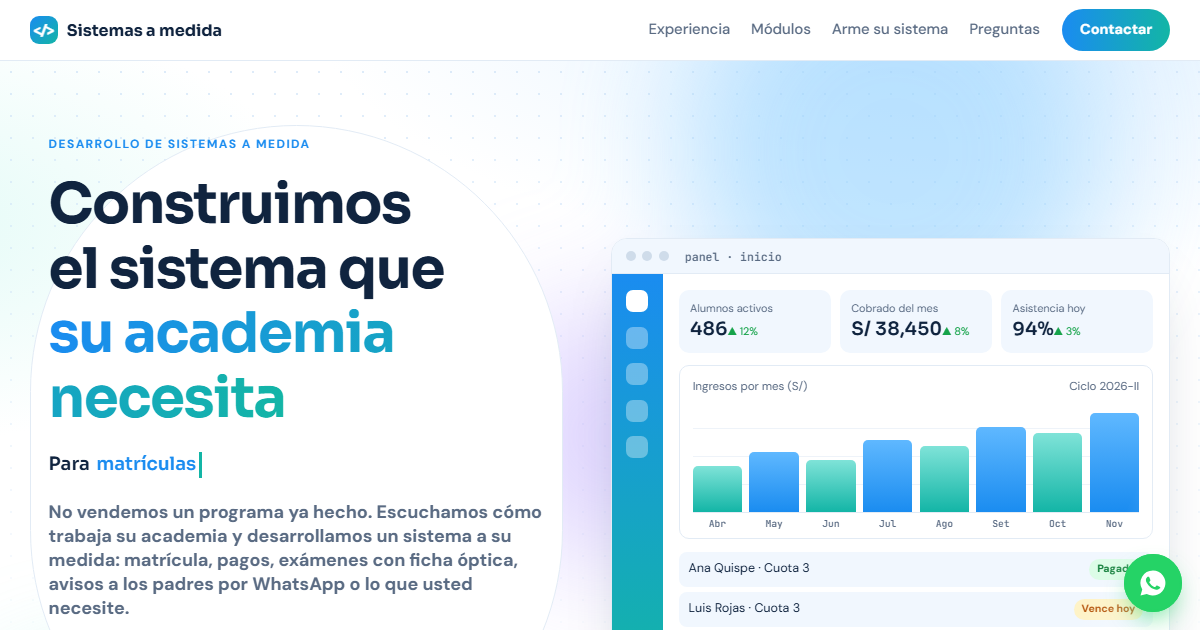
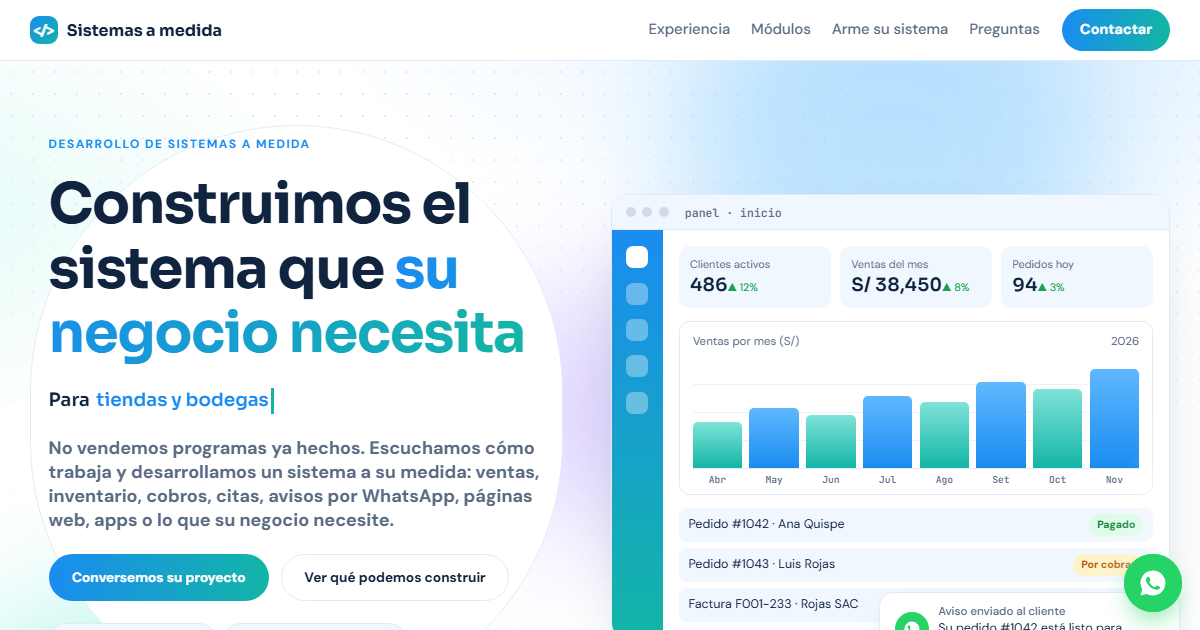
Portafolio general: sistemas a medida para cualquier negocio, 21 módulos y rubro en Arme su sistema

diff --git a/index.html b/index.html
@@ -3,10 +3,10 @@
 <head>
 <meta charset="utf-8">
 <meta name="viewport" content="width=device-width, initial-scale=1, viewport-fit=cover">
-<title>Sistemas para Academias</title>
-<meta name="description" content="Desarrollamos sistemas a medida para academias preuniversitarias: matrícula, pagos, exámenes con ficha óptica y avisos a padres por WhatsApp.">
-<meta property="og:title" content="Sistemas a medida para academias">
-<meta property="og:description" content="Matrícula, pagos, exámenes con ficha óptica y avisos a padres por WhatsApp, hechos a la medida de su academia.">
+<title>Sistemas a Medida</title>
+<meta name="description" content="Desarrollamos sistemas a medida para negocios e instituciones: ventas, inventario, cobros, citas, avisos por WhatsApp, páginas web y apps.">
+<meta property="og:title" content="Sistemas a medida para su negocio">
+<meta property="og:description" content="Ventas, inventario, cobros, citas, avisos por WhatsApp, web y apps, hechos a la medida de su negocio.">
 <meta property="og:type" content="website">
 <meta property="og:url" content="https://portafolio-academias.vercel.app/">
 <meta property="og:image" content="https://portafolio-academias.vercel.app/og.png">
@@ -371,15 +371,15 @@ html{padding-top:env(safe-area-inset-top,0px);padding-bottom:env(safe-area-inset
     <a class="btn primary" href="#contacto">Contactar</a>
   </div>
 </nav>
-<a class="wa-float" href="https://wa.me/51916037021?text=Hola%20Pablo%2C%20quisiera%20conversar%20sobre%20un%20sistema%20para%20mi%20academia" target="_blank" rel="noopener" aria-label="Escribir por WhatsApp"><span>¿Conversamos?</span><svg width="30" height="30" viewBox="0 0 24 24" fill="#fff" aria-hidden="true"><path d="M12 2a10 10 0 0 0-8.6 15.1L2 22l5-1.3A10 10 0 1 0 12 2zm5.2 14.1c-.2.6-1.3 1.2-1.8 1.2-.5.1-1 .2-3.3-.7-2.8-1.1-4.5-4-4.7-4.2-.1-.2-1.1-1.5-1.1-2.8s.7-2 1-2.3c.2-.3.5-.3.7-.3h.5c.2 0 .4 0 .6.5l.8 2c.1.2.1.4 0 .5l-.4.6-.3.4c-.1.1-.3.3-.1.6.2.3.8 1.3 1.7 2.1 1.2 1 2.1 1.3 2.4 1.5.3.1.5.1.6-.1l.9-1c.2-.3.4-.2.6-.1l1.9.9c.3.1.5.2.5.3.1.2.1.7-.1 1.3z"/></svg></a>
+<a class="wa-float" href="https://wa.me/51916037021?text=Hola%20Pablo%2C%20quisiera%20conversar%20sobre%20un%20sistema%20para%20mi%20negocio" target="_blank" rel="noopener" aria-label="Escribir por WhatsApp"><span>¿Conversamos?</span><svg width="30" height="30" viewBox="0 0 24 24" fill="#fff" aria-hidden="true"><path d="M12 2a10 10 0 0 0-8.6 15.1L2 22l5-1.3A10 10 0 1 0 12 2zm5.2 14.1c-.2.6-1.3 1.2-1.8 1.2-.5.1-1 .2-3.3-.7-2.8-1.1-4.5-4-4.7-4.2-.1-.2-1.1-1.5-1.1-2.8s.7-2 1-2.3c.2-.3.5-.3.7-.3h.5c.2 0 .4 0 .6.5l.8 2c.1.2.1.4 0 .5l-.4.6-.3.4c-.1.1-.3.3-.1.6.2.3.8 1.3 1.7 2.1 1.2 1 2.1 1.3 2.4 1.5.3.1.5.1.6-.1l.9-1c.2-.3.4-.2.6-.1l1.9.9c.3.1.5.2.5.3.1.2.1.7-.1 1.3z"/></svg></a>
 <header class="hero">
   <div class="blobs" aria-hidden="true"><i></i><i></i><i></i></div>
   <div class="wrap">
     <div class="copy">
       <span class="eyebrow">Desarrollo de sistemas a medida</span>
-      <h1>Construimos el sistema que <span class="grad">su academia necesita</span></h1>
-      <p class="rotator" aria-label="Para matrículas, pagos, exámenes, avisos por WhatsApp y reportes">Para <span class="w" id="rot" aria-hidden="true">matrículas</span></p>
-      <p class="lead">No vendemos un programa ya hecho. Escuchamos cómo trabaja su academia y desarrollamos un sistema a su medida: matrícula, pagos, exámenes con ficha óptica, avisos a los padres por WhatsApp o lo que usted necesite.</p>
+      <h1>Construimos el sistema que <span class="grad">su negocio necesita</span></h1>
+      <p class="rotator" aria-label="Para tiendas, academias, consultorios, restaurantes, talleres e instituciones">Para <span class="w" id="rot" aria-hidden="true">tiendas y bodegas</span></p>
+      <p class="lead">No vendemos programas ya hechos. Escuchamos cómo trabaja y desarrollamos un sistema a su medida: ventas, inventario, cobros, citas, avisos por WhatsApp, páginas web, apps o lo que su negocio necesite.</p>
       <div class="cta">
         <a class="btn primary" href="#contacto">Conversemos su proyecto</a>
         <a class="btn" href="#modulos">Ver qué podemos construir</a>
@@ -393,32 +393,32 @@ html{padding-top:env(safe-area-inset-top,0px);padding-bottom:env(safe-area-inset
     </div>
 
     <div class="hero-art rv">
-      <div class="app" role="img" aria-label="Pantalla simulada del panel principal con ingresos del mes y estado de pagos">
+      <div class="app" role="img" aria-label="Pantalla simulada del panel principal con ventas del mes y estado de pedidos">
         <div class="bar"><i></i><i></i><i></i><span>panel · inicio</span></div>
         <div class="dash">
           <div class="side"><i></i><i></i><i></i><i></i><i></i></div>
           <div class="dmain">
             <div class="kpis">
-              <div class="kpi"><small>Alumnos activos</small><strong class="count" data-to="486">486</strong><em>▲ 12%</em></div>
-              <div class="kpi"><small>Cobrado del mes</small><strong>S/ <span class="count" data-to="38450">38450</span></strong><em>▲ 8%</em></div>
-              <div class="kpi"><small>Asistencia hoy</small><strong><span class="count" data-to="94">94</span>%</strong><em>▲ 3%</em></div>
+              <div class="kpi"><small>Clientes activos</small><strong class="count" data-to="486">486</strong><em>▲ 12%</em></div>
+              <div class="kpi"><small>Ventas del mes</small><strong>S/ <span class="count" data-to="38450">38450</span></strong><em>▲ 8%</em></div>
+              <div class="kpi"><small>Pedidos hoy</small><strong><span class="count" data-to="94">94</span></strong><em>▲ 3%</em></div>
             </div>
             <div class="chart">
-              <header><span>Ingresos por mes (S/)</span><span>Ciclo 2026-II</span></header>
+              <header><span>Ventas por mes (S/)</span><span>2026</span></header>
               <div class="bars"><span style="--h:42%"></span><span style="--h:55%"></span><span style="--h:48%"></span><span style="--h:66%"></span><span style="--h:60%"></span><span style="--h:78%"></span><span style="--h:72%"></span><span style="--h:90%"></span></div>
               <div class="months"><span>Abr</span><span>May</span><span>Jun</span><span>Jul</span><span>Ago</span><span>Set</span><span>Oct</span><span>Nov</span></div>
             </div>
             <div class="list">
-              <div class="li"><span>Ana Quispe · Cuota 3</span><span class="pill ok">Pagado</span></div>
-              <div class="li"><span>Luis Rojas · Cuota 3</span><span class="pill warn">Vence hoy</span></div>
-              <div class="li"><span>Diego Ramos · Cuota 2</span><span class="pill bad">Atrasado</span></div>
+              <div class="li"><span>Pedido #1042 · Ana Quispe</span><span class="pill ok">Pagado</span></div>
+              <div class="li"><span>Pedido #1043 · Luis Rojas</span><span class="pill warn">Por cobrar</span></div>
+              <div class="li"><span>Factura F001-233 · Rojas SAC</span><span class="pill bad">Vencida</span></div>
             </div>
           </div>
         </div>
       </div>
       <div class="toast" aria-hidden="true">
         <span class="wa-ic"><svg width="18" height="18" viewBox="0 0 24 24" fill="#fff"><path d="M12 2a10 10 0 0 0-8.6 15.1L2 22l5-1.3A10 10 0 1 0 12 2zm5.2 14.1c-.2.6-1.3 1.2-1.8 1.2-.5.1-1 .2-3.3-.7-2.8-1.1-4.5-4-4.7-4.2-.1-.2-1.1-1.5-1.1-2.8s.7-2 1-2.3c.2-.3.5-.3.7-.3h.5c.2 0 .4 0 .6.5l.8 2c.1.2.1.4 0 .5l-.4.6-.3.4c-.1.1-.3.3-.1.6.2.3.8 1.3 1.7 2.1 1.2 1 2.1 1.3 2.4 1.5.3.1.5.1.6-.1l.9-1c.2-.3.4-.2.6-.1l1.9.9c.3.1.5.2.5.3.1.2.1.7-.1 1.3z"/></svg></span>
-        <p><b>Aviso enviado al apoderado</b>Diego quedó en el puesto 12 del Simulacro 3.</p>
+        <p><b>Aviso enviado al cliente</b>Su pedido #1042 está listo para recoger.</p>
       </div>
     </div>
   </div>
@@ -427,10 +427,10 @@ html{padding-top:env(safe-area-inset-top,0px);padding-bottom:env(safe-area-inset
 <!-- CIFRAS -->
 <div class="wrap">
   <div class="stats">
-    <div class="stat rv"><strong><span class="count" data-to="16">16</span> módulos</strong><span>que podemos construir y combinar</span></div>
-    <div class="stat rv d1"><strong><span class="count" data-to="100">100</span> preguntas</strong><span>por ficha óptica, leídas con el celular</span></div>
-    <div class="stat rv d2"><strong>24/7</strong><span>avisos automáticos a padres por WhatsApp</span></div>
-    <div class="stat rv d3"><strong><span class="count" data-to="0">0</span> papeles</strong><span>perdidos: todo queda guardado por ciclo</span></div>
+    <div class="stat rv"><strong><span class="count" data-to="21">21</span> módulos</strong><span>que podemos construir y combinar</span></div>
+    <div class="stat rv d1"><strong><span class="count" data-to="6">6</span> rubros</strong><span>educación, comercio, salud, servicios y más</span></div>
+    <div class="stat rv d2"><strong>24/7</strong><span>avisos automáticos a sus clientes por WhatsApp</span></div>
+    <div class="stat rv d3"><strong><span class="count" data-to="0">0</span> papeles</strong><span>perdidos: todo queda guardado en la nube</span></div>
   </div>
 </div>
 <div class="marquee" aria-hidden="true"><div class="track" id="track"></div></div>
@@ -439,17 +439,17 @@ html{padding-top:env(safe-area-inset-top,0px);padding-bottom:env(safe-area-inset
 <section id="experiencia">
   <div class="wrap">
     <div class="head center rv">
-      <span class="eyebrow">Experiencia comprobada</span>
-      <h2>Ya lo hicimos para otras academias</h2>
-      <p class="lead">Hemos desarrollado sistemas a medida para academias preuniversitarias que hoy los usan en su trabajo diario. Cada uno se construyó según lo que esa academia necesitaba; estas son tres de las soluciones que más les cambiaron el día a día.</p>
+      <span class="eyebrow">Casos reales</span>
+      <h2>Sistemas que ya están funcionando</h2>
+      <p class="lead">Estas son tres piezas que ya construimos para instituciones educativas y que hoy se usan a diario. Las mismas soluciones se adaptan a cualquier negocio: cambian los nombres, la idea es la misma.</p>
     </div>
 
     <!-- Pagos -->
     <div class="pillar">
       <div class="txt rv">
-        <span class="num">PAGOS</span>
+        <span class="num">COBROS Y PAGOS · CASO: ACADEMIA</span>
         <h3 style="font-size:1.7rem">Sepa quién debe, cuánto y desde cuándo</h3>
-        <p class="lead">Cada alumno tiene su plan de cuotas. Secretaría registra el pago, imprime el ticket y el sistema actualiza la deuda al instante.</p>
+        <p class="lead">En una academia son cuotas de alumnos; en un gimnasio, membresías; en una tienda, ventas al crédito. Se registra el pago, sale el ticket y la deuda se actualiza al instante.</p>
         <ul class="ticks"><li>Cuotas, pagos parciales, descuentos y becas</li><li>Ticket impreso en impresora térmica por cada pago</li><li>Lista de morosos con un clic y recordatorio por WhatsApp</li><li>Cierre de caja diario y mensual</li></ul>
       </div>
       <div class="app pay rv d1" role="img" aria-label="Pantalla simulada de control de pagos">
@@ -471,7 +471,7 @@ html{padding-top:env(safe-area-inset-top,0px);padding-bottom:env(safe-area-inset
     <!-- Exámenes -->
     <div class="pillar flip">
       <div class="txt rv">
-        <span class="num">EXÁMENES</span>
+        <span class="num">EVALUACIONES · CASO: ACADEMIA</span>
         <h3 style="font-size:1.7rem">Crear, calificar y publicar resultados el mismo día</h3>
         <p class="lead">El docente carga las preguntas y la clave, se imprimen las fichas ópticas y se califican con la cámara del celular. El ranking sale solo.</p>
         <ul class="ticks"><li><b>Creación:</b> banco de preguntas, solucionario y clave por área</li><li><b>Evaluación:</b> fichas ópticas personalizadas leídas con el celular</li><li><b>Resultados:</b> ranking general y por área, exportable a Excel y PDF</li><li>Puntaje con la escala de la academia (ej. +6 / −0,07 / 0)</li></ul>
@@ -508,9 +508,9 @@ html{padding-top:env(safe-area-inset-top,0px);padding-bottom:env(safe-area-inset
     <!-- WhatsApp -->
     <div class="pillar">
       <div class="txt rv">
-        <span class="num">AVISOS A PADRES</span>
-        <h3 style="font-size:1.7rem">Los padres se enteran por WhatsApp, sin que nadie tenga que escribir</h3>
-        <p class="lead">El sistema envía los mensajes solo, desde el número de la academia. Los padres reciben la información en la app que ya usan todos los días.</p>
+        <span class="num">AVISOS POR WHATSAPP · CASO: ACADEMIA</span>
+        <h3 style="font-size:1.7rem">Sus clientes se enteran por WhatsApp, sin que nadie tenga que escribir</h3>
+        <p class="lead">El sistema envía los mensajes solo, desde el número de su negocio. En la academia avisa a los padres; en su negocio puede confirmar pedidos, recordar citas o cobrar deudas.</p>
         <ul class="ticks"><li>Recordatorio de cuotas antes del vencimiento</li><li>Notas y puesto en cada simulacro</li><li>Faltas y tardanzas del día</li><li>Comunicados generales a todo un ciclo o aula</li></ul>
       </div>
       <div class="rv d1">
@@ -540,30 +540,36 @@ html{padding-top:env(safe-area-inset-top,0px);padding-bottom:env(safe-area-inset
       <p class="lead">No es un paquete cerrado. Usted elige qué necesita, lo diseñamos según su forma de trabajar y podemos agregar funciones que no estén en esta lista. Todo comparte la misma información, así que nada se escribe dos veces.</p>
     </div>
     <div class="filters" role="group" aria-label="Filtrar módulos por área">
-      <button type="button" class="f on" data-f="all">Todos <span>16</span></button>
-      <button type="button" class="f" data-f="sec">Secretaría</button>
+      <button type="button" class="f on" data-f="all">Todos <span>21</span></button>
+      <button type="button" class="f" data-f="ven">Ventas</button>
+      <button type="button" class="f" data-f="ope">Operaciones</button>
       <button type="button" class="f" data-f="fin">Finanzas</button>
-      <button type="button" class="f" data-f="aca">Académico</button>
       <button type="button" class="f" data-f="com">Comunicación</button>
       <button type="button" class="f" data-f="dir">Dirección</button>
+      <button type="button" class="f" data-f="web">Web y apps</button>
     </div>
     <div class="mods">
-      <article class="mod rv" data-cat="sec"><div class="ic"><svg viewBox="0 0 24 24"><path d="M16 21v-2a4 4 0 0 0-4-4H6a4 4 0 0 0-4 4v2"/><circle cx="9" cy="7" r="4"/><path d="M19 8v6M22 11h-6"/></svg></div><span class="cat">Secretaría</span><h3>Matrícula</h3><ul><li>Registro por DNI con foto</li><li>Turno, área y carrera</li><li>Datos del apoderado y poder para menores</li><li>Ficha A4 y ticket al instante</li></ul></article>
-      <article class="mod rv" data-cat="sec"><div class="ic"><svg viewBox="0 0 24 24"><path d="M4 4h16v16H4z"/><path d="M8 9h8M8 13h8M8 17h4"/><circle cx="18" cy="18" r="4" fill="#fff"/><path d="M16.5 18l1 1 2-2"/></svg></div><span class="cat">Secretaría</span><h3>Preinscripción en línea</h3><ul><li>Formulario web para postulantes</li><li>Llegan como interesados al sistema</li><li>Secretaría confirma y matricula</li><li>Útil para campañas de inicio de ciclo</li></ul></article>
-      <article class="mod rv" data-cat="sec"><div class="ic"><svg viewBox="0 0 24 24"><rect x="3" y="3" width="7" height="7"/><rect x="14" y="3" width="7" height="7"/><rect x="3" y="14" width="7" height="7"/><path d="M14 14h3v3h-3zM20 14v.01M14 20h.01M17 20h4v-3"/></svg></div><span class="cat">Secretaría</span><h3>Asistencia con QR</h3><ul><li>Carnet del alumno con código QR</li><li>Se marca en la puerta con un celular</li><li>Faltas y tardanzas al instante</li><li>Aviso inmediato al apoderado</li></ul></article>
-      <article class="mod rv" data-cat="fin"><div class="ic"><svg viewBox="0 0 24 24"><rect x="2" y="5" width="20" height="14" rx="2"/><path d="M2 10h20M6 15h4"/></svg></div><span class="cat">Finanzas</span><h3>Pagos</h3><ul><li>Plan de cuotas por alumno</li><li>Pagos parciales, descuentos y becas</li><li>Ticket por cada pago</li><li>Lista de morosos y cierre de caja</li></ul></article>
-      <article class="mod rv" data-cat="fin"><div class="ic"><svg viewBox="0 0 24 24"><path d="M6 2h12v20l-3-2-3 2-3-2-3 2z"/><path d="M9 7h6M9 11h6M9 15h3"/></svg></div><span class="cat">Finanzas</span><h3>Boletas electrónicas</h3><ul><li>Conexión con facturación electrónica</li><li>Boleta o factura en cada pago</li><li>Envío al correo o WhatsApp del cliente</li><li>Reporte para el contador</li></ul></article>
-      <article class="mod rv" data-cat="fin"><div class="ic"><svg viewBox="0 0 24 24"><circle cx="12" cy="8" r="4"/><path d="M4 21c1-4 4-6 8-6s7 2 8 6"/><path d="M17 3l2 2-2 2"/></svg></div><span class="cat">Finanzas</span><h3>Pago a docentes</h3><ul><li>Horas dictadas por docente</li><li>Cálculo automático del pago</li><li>Adelantos y descuentos</li><li>Constancia de pago imprimible</li></ul></article>
-      <article class="mod rv" data-cat="fin"><div class="ic"><svg viewBox="0 0 24 24"><path d="M3 17l6-6 4 4 8-8"/><path d="M15 7h6v6"/></svg></div><span class="cat">Finanzas</span><h3>Gastos y ganancia</h3><ul><li>Registro de alquiler, luz y materiales</li><li>Caja chica</li><li>Ganancia real de cada ciclo</li><li>Comparación entre ingresos y gastos</li></ul></article>
-      <article class="mod rv" data-cat="aca"><div class="ic"><svg viewBox="0 0 24 24"><path d="M22 10L12 5 2 10l10 5 10-5z"/><path d="M6 12v5c3 2 9 2 12 0v-5"/></svg></div><span class="cat">Académico</span><h3>Portal docente</h3><ul><li>Cuenta propia para cada docente</li><li>Ve solo sus cursos y aulas</li><li>Sube preguntas y solucionarios</li><li>Registra asistencia y notas</li></ul></article>
-      <article class="mod rv" data-cat="aca"><div class="ic"><svg viewBox="0 0 24 24"><path d="M9 11l3 3 8-8"/><path d="M20 12v7a2 2 0 0 1-2 2H6a2 2 0 0 1-2-2V5a2 2 0 0 1 2-2h9"/></svg></div><span class="cat">Académico</span><h3>Exámenes</h3><ul><li>Banco de preguntas y claves por área</li><li>Fichas ópticas con QR</li><li>Calificación con el celular</li><li>Ranking general y por área</li></ul></article>
-      <article class="mod rv" data-cat="aca"><div class="ic"><svg viewBox="0 0 24 24"><rect x="3" y="4" width="18" height="17" rx="2"/><path d="M3 9h18M8 2v4M16 2v4M7 13h3M14 13h3M7 17h3"/></svg></div><span class="cat">Académico</span><h3>Horarios y aulas</h3><ul><li>Horario por aula y por docente</li><li>Detecta cruces de horario</li><li>Cambios avisados a alumnos</li><li>Horario visible desde el celular</li></ul></article>
-      <article class="mod rv" data-cat="aca"><div class="ic"><svg viewBox="0 0 24 24"><path d="M4 19.5A2.5 2.5 0 0 1 6.5 17H20V3H6.5A2.5 2.5 0 0 0 4 5.5z"/><path d="M4 19.5A2.5 2.5 0 0 0 6.5 22H20v-5"/><path d="M10 7l4 3-4 3z"/></svg></div><span class="cat">Académico</span><h3>Aula virtual</h3><ul><li>Separatas y material en PDF</li><li>Videos de clases grabadas</li><li>Solucionarios de cada simulacro</li><li>Acceso solo para alumnos matriculados</li></ul></article>
-      <article class="mod rv" data-cat="com"><div class="ic"><svg viewBox="0 0 24 24"><path d="M21 15a2 2 0 0 1-2 2H7l-4 4V5a2 2 0 0 1 2-2h14a2 2 0 0 1 2 2z"/><path d="M8 9h8M8 13h5"/></svg></div><span class="cat">Comunicación</span><h3>Avisos por WhatsApp</h3><ul><li>Recordatorios de pago automáticos</li><li>Notas, faltas y tardanzas</li><li>Comunicados masivos por ciclo o aula</li><li>Desde el número de la academia</li></ul></article>
-      <article class="mod rv" data-cat="com"><div class="ic"><svg viewBox="0 0 24 24"><rect x="6" y="2" width="12" height="20" rx="2"/><path d="M11 18h2M9 7h6M9 11h6"/></svg></div><span class="cat">Comunicación</span><h3>App para alumnos y padres</h3><ul><li>Notas y puesto en cada simulacro</li><li>Deudas y fechas de pago</li><li>Asistencia del mes</li><li>Se instala en el celular como una app</li></ul></article>
-      <article class="mod rv" data-cat="dir"><div class="ic"><svg viewBox="0 0 24 24"><path d="M14 2H6a2 2 0 0 0-2 2v16a2 2 0 0 0 2 2h12a2 2 0 0 0 2-2V8z"/><path d="M14 2v6h6M8 13h8M8 17h5"/></svg></div><span class="cat">Dirección</span><h3>Reportes</h3><ul><li>Ingresos por día, mes y ciclo</li><li>Asistencia por alumno y aula</li><li>Notas y evolución por simulacro</li><li>Descarga en Excel y PDF</li></ul></article>
-      <article class="mod rv" data-cat="dir"><div class="ic"><svg viewBox="0 0 24 24"><rect x="3" y="3" width="7" height="9" rx="1"/><rect x="14" y="3" width="7" height="5" rx="1"/><rect x="14" y="12" width="7" height="9" rx="1"/><rect x="3" y="16" width="7" height="5" rx="1"/></svg></div><span class="cat">Dirección</span><h3>Dashboards</h3><ul><li>Resumen del día al abrir el sistema</li><li>Gráficos de ingresos y matrícula</li><li>Alertas de deudas y faltas</li><li>Vista para dirección y para caja</li></ul></article>
-      <article class="mod rv" data-cat="dir"><div class="ic"><svg viewBox="0 0 24 24"><path d="M3 12a9 9 0 1 0 3-6.7L3 8"/><path d="M3 3v5h5M12 7v5l3 2"/></svg></div><span class="cat">Dirección</span><h3>Información histórica</h3><ul><li>Todos los ciclos guardados</li><li>Historial completo de cada alumno</li><li>Comparación entre ciclos</li><li>Copias de seguridad automáticas</li></ul></article>
+      <article class="mod rv" data-cat="ven"><div class="ic"><svg viewBox="0 0 24 24"><rect x="3" y="4" width="18" height="12" rx="2"/><path d="M7 20h10M12 16v4M7 9h4"/></svg></div><span class="cat">Ventas</span><h3>Ventas y caja</h3><ul><li>Punto de venta rápido</li><li>Ticket o comprobante al instante</li><li>Apertura y cierre de caja</li><li>Ventas por vendedor y por día</li></ul></article>
+      <article class="mod rv" data-cat="ven"><div class="ic"><svg viewBox="0 0 24 24"><path d="M6 6h15l-1.5 9h-12z"/><path d="M6 6L5 3H2"/><circle cx="9" cy="20" r="1.5"/><circle cx="18" cy="20" r="1.5"/></svg></div><span class="cat">Ventas</span><h3>Pedidos y delivery</h3><ul><li>Pedidos desde web o WhatsApp</li><li>Estado: recibido, en camino, entregado</li><li>Asignación a repartidores</li><li>Aviso al cliente en cada paso</li></ul></article>
+      <article class="mod rv" data-cat="ven"><div class="ic"><svg viewBox="0 0 24 24"><path d="M16 21v-2a4 4 0 0 0-4-4H6a4 4 0 0 0-4 4v2"/><circle cx="9" cy="7" r="4"/><path d="M19 8v6M22 11h-6"/></svg></div><span class="cat">Ventas</span><h3>Clientes</h3><ul><li>Ficha de cada cliente o alumno</li><li>Historial de compras y pagos</li><li>Búsqueda por DNI o RUC</li><li>Clientes frecuentes y promociones</li></ul></article>
+      <article class="mod rv" data-cat="ope"><div class="ic"><svg viewBox="0 0 24 24"><path d="M21 8l-9-5-9 5 9 5 9-5z"/><path d="M3 8v8l9 5 9-5V8M12 13v8"/></svg></div><span class="cat">Operaciones</span><h3>Inventario</h3><ul><li>Stock en tiempo real</li><li>Alertas de productos por agotarse</li><li>Entradas, salidas y mermas</li><li>Varios almacenes o sedes</li></ul></article>
+      <article class="mod rv" data-cat="ope"><div class="ic"><svg viewBox="0 0 24 24"><rect x="1" y="6" width="14" height="11" rx="1"/><path d="M15 10h4l3 3v4h-7"/><circle cx="6" cy="19" r="2"/><circle cx="18" cy="19" r="2"/></svg></div><span class="cat">Operaciones</span><h3>Compras y proveedores</h3><ul><li>Órdenes de compra</li><li>Directorio de proveedores</li><li>Cuentas por pagar</li><li>Comparación de precios</li></ul></article>
+      <article class="mod rv" data-cat="ope"><div class="ic"><svg viewBox="0 0 24 24"><rect x="3" y="4" width="18" height="17" rx="2"/><path d="M3 9h18M8 2v4M16 2v4M8 14h3v3H8z"/></svg></div><span class="cat">Operaciones</span><h3>Reservas y citas</h3><ul><li>Agenda por profesional o ambiente</li><li>Reserva en línea las 24 horas</li><li>Recordatorio por WhatsApp</li><li>Control de inasistencias</li></ul></article>
+      <article class="mod rv" data-cat="ope"><div class="ic"><svg viewBox="0 0 24 24"><rect x="3" y="3" width="7" height="7"/><rect x="14" y="3" width="7" height="7"/><rect x="3" y="14" width="7" height="7"/><path d="M14 14h3v3h-3zM20 14v.01M14 20h.01M17 20h4v-3"/></svg></div><span class="cat">Operaciones</span><h3>Personal y asistencia</h3><ul><li>Marcación con QR o desde el celular</li><li>Tardanzas y faltas</li><li>Horarios y turnos</li><li>Cálculo de pagos al personal</li></ul></article>
+      <article class="mod rv" data-cat="ope"><div class="ic"><svg viewBox="0 0 24 24"><path d="M9 11l3 3 8-8"/><path d="M20 12v7a2 2 0 0 1-2 2H6a2 2 0 0 1-2-2V5a2 2 0 0 1 2-2h9"/></svg></div><span class="cat">Operaciones</span><h3>Evaluaciones y exámenes</h3><ul><li>Banco de preguntas y claves</li><li>Fichas ópticas leídas con el celular</li><li>Calificación automática</li><li>Ranking y resultados</li></ul></article>
+      <article class="mod rv" data-cat="ope"><div class="ic"><svg viewBox="0 0 24 24"><path d="M14 2H6a2 2 0 0 0-2 2v16a2 2 0 0 0 2 2h12a2 2 0 0 0 2-2V8z"/><path d="M14 2v6h6M9 15l2 2 4-4"/></svg></div><span class="cat">Operaciones</span><h3>Trámites y documentos</h3><ul><li>Formularios en línea</li><li>Documentos generados en Word y PDF</li><li>Seguimiento del estado del trámite</li><li>Textos ya redactados para el usuario</li></ul></article>
+      <article class="mod rv" data-cat="fin"><div class="ic"><svg viewBox="0 0 24 24"><rect x="2" y="5" width="20" height="14" rx="2"/><path d="M2 10h20M6 15h4"/></svg></div><span class="cat">Finanzas</span><h3>Pagos y cobranzas</h3><ul><li>Cuotas, membresías y créditos</li><li>Pagos parciales y descuentos</li><li>Lista de deudores con un clic</li><li>Recordatorio de pago automático</li></ul></article>
+      <article class="mod rv" data-cat="fin"><div class="ic"><svg viewBox="0 0 24 24"><path d="M6 2h12v20l-3-2-3 2-3-2-3 2z"/><path d="M9 7h6M9 11h6M9 15h3"/></svg></div><span class="cat">Finanzas</span><h3>Facturación electrónica</h3><ul><li>Conexión con facturación electrónica</li><li>Boletas y facturas en cada venta</li><li>Envío al correo o WhatsApp</li><li>Reporte para el contador</li></ul></article>
+      <article class="mod rv" data-cat="fin"><div class="ic"><svg viewBox="0 0 24 24"><path d="M3 17l6-6 4 4 8-8"/><path d="M15 7h6v6"/></svg></div><span class="cat">Finanzas</span><h3>Gastos y ganancia</h3><ul><li>Registro de gastos fijos y variables</li><li>Caja chica</li><li>Ganancia real del mes</li><li>Ingresos frente a gastos</li></ul></article>
+      <article class="mod rv" data-cat="com"><div class="ic"><svg viewBox="0 0 24 24"><path d="M21 15a2 2 0 0 1-2 2H7l-4 4V5a2 2 0 0 1 2-2h14a2 2 0 0 1 2 2z"/><path d="M8 9h8M8 13h5"/></svg></div><span class="cat">Comunicación</span><h3>Avisos por WhatsApp</h3><ul><li>Recordatorios y confirmaciones automáticas</li><li>Estado de pedidos, citas o pagos</li><li>Comunicados masivos</li><li>Desde el número de su negocio</li></ul></article>
+      <article class="mod rv" data-cat="com"><div class="ic"><svg viewBox="0 0 24 24"><rect x="6" y="2" width="12" height="20" rx="2"/><path d="M11 18h2M9 7h6M9 11h6"/></svg></div><span class="cat">Comunicación</span><h3>Portal para clientes</h3><ul><li>Cada cliente entra con su cuenta</li><li>Ve sus compras, deudas o notas</li><li>Descarga comprobantes y documentos</li><li>Funciona desde el celular</li></ul></article>
+      <article class="mod rv" data-cat="dir"><div class="ic"><svg viewBox="0 0 24 24"><path d="M14 2H6a2 2 0 0 0-2 2v16a2 2 0 0 0 2 2h12a2 2 0 0 0 2-2V8z"/><path d="M14 2v6h6M8 13h8M8 17h5"/></svg></div><span class="cat">Dirección</span><h3>Reportes</h3><ul><li>Ventas por día, mes y año</li><li>Productos y servicios más vendidos</li><li>Rendimiento del personal</li><li>Descarga en Excel y PDF</li></ul></article>
+      <article class="mod rv" data-cat="dir"><div class="ic"><svg viewBox="0 0 24 24"><rect x="3" y="3" width="7" height="9" rx="1"/><rect x="14" y="3" width="7" height="5" rx="1"/><rect x="14" y="12" width="7" height="9" rx="1"/><rect x="3" y="16" width="7" height="5" rx="1"/></svg></div><span class="cat">Dirección</span><h3>Dashboards</h3><ul><li>Resumen del día al abrir el sistema</li><li>Gráficos de ingresos y clientes</li><li>Alertas de deudas y stock</li><li>Vista para gerencia y para caja</li></ul></article>
+      <article class="mod rv" data-cat="dir"><div class="ic"><svg viewBox="0 0 24 24"><path d="M3 12a9 9 0 1 0 3-6.7L3 8"/><path d="M3 3v5h5M12 7v5l3 2"/></svg></div><span class="cat">Dirección</span><h3>Historial y respaldos</h3><ul><li>Toda la información guardada por año</li><li>Historial completo de cada cliente</li><li>Comparación entre periodos</li><li>Copias de seguridad automáticas</li></ul></article>
+      <article class="mod rv" data-cat="dir"><div class="ic"><svg viewBox="0 0 24 24"><rect x="4" y="11" width="16" height="10" rx="2"/><path d="M8 11V7a4 4 0 0 1 8 0v4"/></svg></div><span class="cat">Dirección</span><h3>Usuarios y permisos</h3><ul><li>Cuenta propia para cada trabajador</li><li>Cada uno ve solo lo que le toca</li><li>Registro de quién hizo qué</li><li>Acceso seguro desde cualquier lugar</li></ul></article>
+      <article class="mod rv" data-cat="web"><div class="ic"><svg viewBox="0 0 24 24"><circle cx="12" cy="12" r="10"/><path d="M2 12h20M12 2a15 15 0 0 1 0 20M12 2a15 15 0 0 0 0 20"/></svg></div><span class="cat">Web y apps</span><h3>Página web</h3><ul><li>Presentación de su negocio</li><li>Se ve bien en celular y PC</li><li>Botón directo a WhatsApp</li><li>Aparece en Google</li></ul></article>
+      <article class="mod rv" data-cat="web"><div class="ic"><svg viewBox="0 0 24 24"><path d="M3 9l1-5h16l1 5"/><path d="M3 9h18v2a3 3 0 0 1-6 0 3 3 0 0 1-6 0 3 3 0 0 1-6 0z"/><path d="M5 13v8h14v-8"/></svg></div><span class="cat">Web y apps</span><h3>Tienda en línea</h3><ul><li>Catálogo con fotos y precios</li><li>Carrito y pedido por WhatsApp</li><li>Conectada a su inventario</li><li>Promociones y descuentos</li></ul></article>
+      <article class="mod rv" data-cat="web"><div class="ic"><svg viewBox="0 0 24 24"><rect x="6" y="2" width="12" height="20" rx="3"/><path d="M11 18h2"/><path d="M9 7l2 2 4-4"/></svg></div><span class="cat">Web y apps</span><h3>App para celular</h3><ul><li>Se instala como una app</li><li>Funciona sin internet</li><li>Notificaciones al celular</li><li>Para clientes o para su equipo</li></ul></article>
     </div>
   </div>
 </section>
@@ -573,20 +579,20 @@ html{padding-top:env(safe-area-inset-top,0px);padding-bottom:env(safe-area-inset
   <div class="wrap">
     <div class="head center rv">
       <span class="eyebrow">Antes y después</span>
-      <h2>Del cuaderno y el Excel a un sistema</h2>
+      <h2>Del cuaderno y el Excel a un sistema propio</h2>
     </div>
     <div class="vs">
       <div class="col before rv"><h3>Con cuaderno y Excel</h3><ul>
-        <li>Buscar a qué alumno le falta pagar toma horas</li>
-        <li>Calificar un simulacro a mano toma días</li>
+        <li>Saber quién le debe toma horas</li>
+        <li>El stock se cuenta a mano y nunca cuadra</li>
         <li>Cada archivo de Excel tiene datos distintos</li>
-        <li>Llamar uno por uno a los padres</li>
+        <li>Llamar uno por uno a los clientes</li>
         <li>Si se pierde el cuaderno, se pierde la información</li>
       </ul></div>
       <div class="col after rv d1"><h3>Con un sistema a su medida</h3><ul>
-        <li>La lista de morosos sale con un clic</li>
-        <li>Las fichas se califican con el celular y el ranking sale el mismo día</li>
-        <li>Una sola base de datos para toda la academia</li>
+        <li>La lista de deudores sale con un clic</li>
+        <li>El inventario se descuenta solo con cada venta</li>
+        <li>Una sola base de datos para todo el negocio</li>
         <li>Los avisos llegan solos por WhatsApp</li>
         <li>Todo queda guardado en la nube con copias de seguridad</li>
       </ul></div>
@@ -617,10 +623,10 @@ html{padding-top:env(safe-area-inset-top,0px);padding-bottom:env(safe-area-inset
       <h2>De la primera reunión al sistema en uso</h2>
     </div>
     <ol class="steps">
-      <li class="rv"><h3>Escuchamos</h3><p>Conocemos cómo matricula, cobra y evalúa hoy, y qué problemas quiere resolver.</p></li>
+      <li class="rv"><h3>Escuchamos</h3><p>Conocemos cómo trabaja hoy y qué problemas quiere resolver.</p></li>
       <li class="rv d1"><h3>Diseñamos</h3><p>Proponemos el sistema a su medida y le mostramos cómo se verá.</p></li>
       <li class="rv d2"><h3>Desarrollamos</h3><p>Lo construimos por etapas y usted lo revisa en cada avance.</p></li>
-      <li class="rv d3"><h3>Capacitación</h3><p>Enseñamos a secretaría y docentes a usarlo.</p></li>
+      <li class="rv d3"><h3>Capacitación</h3><p>Enseñamos a su equipo a usarlo.</p></li>
       <li class="rv"><h3>Soporte</h3><p>Acompañamos el ciclo y atendemos mejoras.</p></li>
     </ol>
   </div>
@@ -631,16 +637,17 @@ html{padding-top:env(safe-area-inset-top,0px);padding-bottom:env(safe-area-inset
   <div class="wrap">
     <div class="head center rv">
       <span class="eyebrow">Arme su sistema</span>
-      <h2>Marque lo que su academia necesita</h2>
-      <p class="lead">Elija los módulos que le interesan y envíenos la lista por WhatsApp. Con eso preparamos una propuesta pensada solo para su academia.</p>
+      <h2>Marque lo que su negocio necesita</h2>
+      <p class="lead">Elija su rubro y los módulos que le interesan, y envíenos la lista por WhatsApp. Con eso preparamos una propuesta pensada solo para usted.</p>
     </div>
     <div class="builder">
       <div>
         <div class="quick" aria-label="Selecciones rápidas">
-          <button type="button" data-pick="Matrícula,Pagos,Exámenes,Avisos por WhatsApp">Lo esencial</button>
+          <button type="button" data-pick="Ventas y caja,Inventario,Pagos y cobranzas,Reportes">Lo esencial</button>
           <button type="button" data-pick="all">Marcar todo</button>
           <button type="button" data-pick="">Limpiar</button>
         </div>
+        <div class="group"><h3>Su rubro</h3><div class="opts" id="rubros"></div></div>
         <div class="groups" id="groups"></div>
       </div>
       <aside class="summary" aria-live="polite">
@@ -648,7 +655,7 @@ html{padding-top:env(safe-area-inset-top,0px);padding-bottom:env(safe-area-inset
         <ul id="picked"><li class="empty" style="background:none;padding:0;animation:none">Toque los módulos de la izquierda.</li></ul>
         <div style="display:grid;gap:.4rem">
           <label for="extra">¿Algo más que necesite? (opcional)</label>
-          <textarea id="extra" placeholder="Ej.: tenemos 2 sedes, usamos boletas, queremos controlar el pago de docentes…"></textarea>
+          <textarea id="extra" placeholder="Ej.: tenemos 2 locales, emitimos boletas, queremos vender por internet…"></textarea>
         </div>
         <a class="btn wa" id="send" href="#" target="_blank" rel="noopener" aria-disabled="true">Enviar mi lista por WhatsApp</a>
         <small>Se abre WhatsApp con su lista ya escrita. No se envía nada hasta que usted lo confirme.</small>
@@ -662,11 +669,12 @@ html{padding-top:env(safe-area-inset-top,0px);padding-bottom:env(safe-area-inset
   <div class="wrap">
     <div class="head center rv"><span class="eyebrow">Preguntas frecuentes</span><h2>Lo que suelen preguntarnos</h2></div>
     <div class="faq">
-      <details open><summary>¿Es un sistema ya hecho que me venden?</summary><p>No. Cada sistema lo construimos desde lo que su academia necesita: sus áreas, sus cuotas, su forma de calificar y sus formatos. Lo que ve en esta página son ejemplos de lo que ya hemos hecho, no un paquete cerrado.</p></details>
-      <details><summary>¿Funciona si se va el internet?</summary><p>Sí. Se puede seguir matriculando y cobrando sin conexión, y todo se sincroniza solo cuando vuelve la red.</p></details>
-      <details><summary>¿Tengo que comprar equipos nuevos?</summary><p>No. Funciona en las computadoras y celulares que ya tiene la academia, desde el navegador. Para los tickets basta una impresora térmica común de 80 mm.</p></details>
-      <details><summary>¿Cómo se leen las fichas ópticas?</summary><p>Con la cámara de cualquier celular, dentro del mismo sistema. No se necesita un lector óptico especial.</p></details>
-      <details><summary>¿Los mensajes de WhatsApp salen de mi número?</summary><p>Sí. Se vincula el número de la academia y los avisos salen desde ahí, como si los escribiera la secretaria.</p></details>
+      <details open><summary>¿Es un sistema ya hecho que me venden?</summary><p>No. Cada sistema lo construimos desde lo que su negocio necesita: sus procesos, sus precios y sus formatos. Lo que ve en esta página son ejemplos de lo que podemos hacer, no un paquete cerrado.</p></details>
+      <details><summary>¿Funciona si se va el internet?</summary><p>Sí. Se puede seguir vendiendo y cobrando sin conexión, y todo se sincroniza solo cuando vuelve la red.</p></details>
+      <details><summary>¿Tengo que comprar equipos nuevos?</summary><p>No. Funciona en las computadoras y celulares que ya tiene, desde el navegador. Para los tickets basta una impresora térmica común de 80 mm.</p></details>
+      <details><summary>¿Solo trabajan con academias?</summary><p>No. Empezamos en educación, pero hacemos sistemas para tiendas, consultorios, restaurantes, talleres, gimnasios, instituciones y cualquier negocio que quiera ordenarse.</p></details>
+      <details><summary>¿También hacen páginas web y apps?</summary><p>Sí. Podemos hacer solo una página web o una tienda en línea, o conectarlas con su sistema para que pedidos, stock y clientes estén en un solo lugar.</p></details>
+      <details><summary>¿Los mensajes de WhatsApp salen de mi número?</summary><p>Sí. Se vincula el número de su negocio y los avisos salen desde ahí, como si los escribiera usted.</p></details>
       <details><summary>¿Mis datos están seguros?</summary><p>Cada usuario entra con su propia cuenta y solo ve lo que le corresponde. La información se guarda en la nube con copias de seguridad.</p></details>
       <details><summary>¿Cuánto tarda en estar listo?</summary><p>Depende de los módulos y ajustes que necesite. Lo definimos juntos en la primera reunión.</p></details>
     </div>
@@ -678,14 +686,14 @@ html{padding-top:env(safe-area-inset-top,0px);padding-bottom:env(safe-area-inset
   <div class="wrap">
     <div class="contact rv">
       <div style="display:grid;gap:1rem">
-        <h2>Cuéntenos qué necesita su academia</h2>
-        <p>Vamos a su academia, escuchamos sus necesidades y le mostramos ejemplos de lo que ya construimos. A partir de ahí diseñamos su sistema.</p>
+        <h2>Cuéntenos qué necesita su negocio</h2>
+        <p>Conversamos, escuchamos sus necesidades y le mostramos ejemplos de lo que ya construimos. A partir de ahí diseñamos su sistema.</p>
       </div>
       <div class="card">
         <small>WhatsApp · Pablo</small>
         <span class="n" id="wa">+51 916 037 021</span>
         <div class="row2">
-          <a class="btn wa" href="https://wa.me/51916037021?text=Hola%20Pablo%2C%20quisiera%20conversar%20sobre%20un%20sistema%20para%20mi%20academia" target="_blank" rel="noopener">Escribir por WhatsApp</a>
+          <a class="btn wa" href="https://wa.me/51916037021?text=Hola%20Pablo%2C%20quisiera%20conversar%20sobre%20un%20sistema%20para%20mi%20negocio" target="_blank" rel="noopener">Escribir por WhatsApp</a>
           <button class="copy" type="button" id="copy">Copiar número</button>
         </div>
       </div>
@@ -693,7 +701,7 @@ html{padding-top:env(safe-area-inset-top,0px);padding-bottom:env(safe-area-inset
   </div>
 </section>
 
-<footer class="site wrap">Desarrollo de software a medida para instituciones educativas · Perú</footer>
+<footer class="site wrap">Desarrollo de sistemas, páginas web y apps a medida · Perú</footer>
 
 <script>
 const still=matchMedia('(prefers-reduced-motion: reduce)').matches;
@@ -749,7 +757,7 @@ const names=[...document.querySelectorAll('.mod h3')].map(h=>h.textContent);
 document.getElementById('track').innerHTML=[...names,...names].map(n=>`<span>${n}</span>`).join('');
 
 // palabra que se escribe y se borra
-const words=['matrículas','pagos y cuotas','exámenes con ficha óptica','avisos por WhatsApp','reportes y dashboards','lo que su academia necesite'], rot=document.getElementById('rot');
+const words=['tiendas y bodegas','academias y colegios','consultorios y clínicas','restaurantes','talleres y servicios','instituciones','lo que su negocio necesite'], rot=document.getElementById('rot');
 if(!still){
   let wi=0,ci=words[0].length,del=true;
   (function tick(){
@@ -785,7 +793,7 @@ document.querySelectorAll('.f').forEach(b=>b.addEventListener('click',()=>{
 }));
 
 // arme su sistema: opciones generadas desde las tarjetas de módulos, agrupadas por área
-const WA='51916037021', areas={sec:'Secretaría',fin:'Finanzas',aca:'Académico',com:'Comunicación',dir:'Dirección'};
+const WA='51916037021', areas={ven:'Ventas',ope:'Operaciones',fin:'Finanzas',com:'Comunicación',dir:'Dirección',web:'Web y apps'};
 const groups=document.getElementById('groups'), chosen=new Set();
 Object.entries(areas).forEach(([k,label])=>{
   const g=document.createElement('div');g.className='group';
@@ -793,8 +801,17 @@ Object.entries(areas).forEach(([k,label])=>{
   groups.appendChild(g);
 });
 const opts=[...groups.querySelectorAll('.opt')], send=document.getElementById('send'), extra=document.getElementById('extra');
+// rubro: una sola opción, opcional
+const rubros=['Educación','Comercio','Salud','Restaurante','Servicios','Institución','Otro'], rubBox=document.getElementById('rubros');
+let rubro='';
+rubBox.innerHTML=rubros.map(r=>`<button type="button" class="opt" aria-pressed="false" data-r="${r}">${r}</button>`).join('');
+rubBox.querySelectorAll('.opt').forEach(b=>b.addEventListener('click',()=>{
+  rubro=rubro===b.dataset.r?'':b.dataset.r;
+  rubBox.querySelectorAll('.opt').forEach(x=>x.setAttribute('aria-pressed',x.dataset.r===rubro));
+  render();
+}));
 function waLink(list,note){
-  let t='Hola Pablo, me interesa un sistema para mi academia con estos módulos:\n'+list.map(n=>'• '+n).join('\n');
+  let t='Hola Pablo, '+(rubro&&rubro!=='Otro'?'tengo un negocio del rubro '+rubro.toLowerCase()+' y ':'')+'me interesa un sistema con estos módulos:\n'+list.map(n=>'• '+n).join('\n');
   if(note.trim()) t+='\n\nAdemás: '+note.trim();
   return 'https://wa.me/'+WA+'?text='+encodeURIComponent(t);
 }
